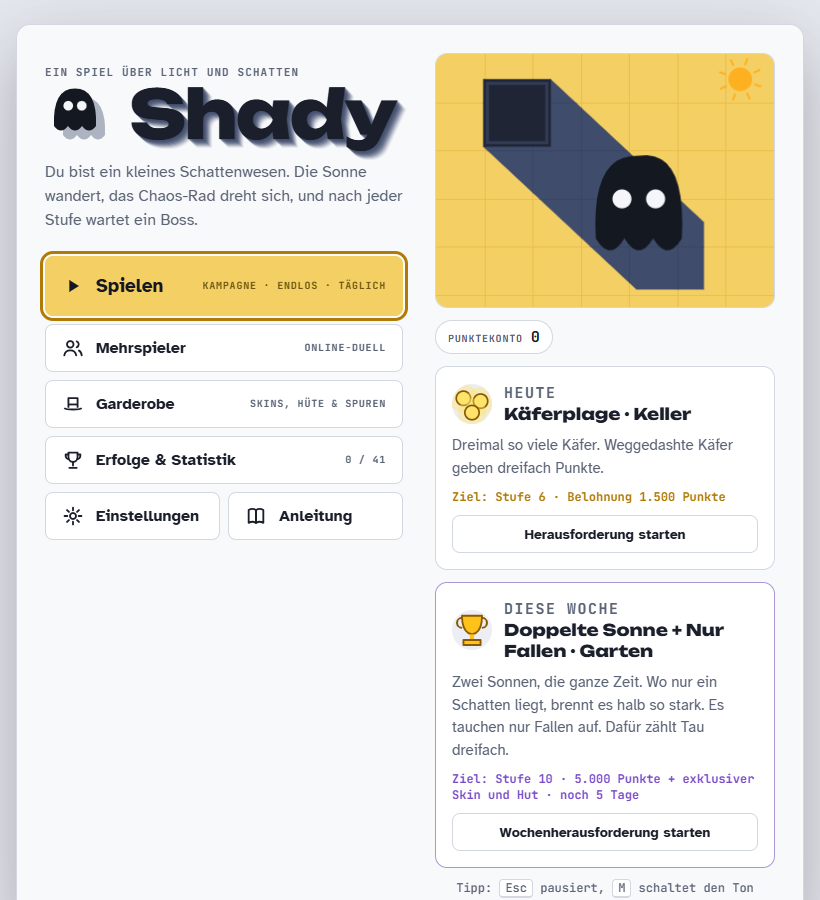
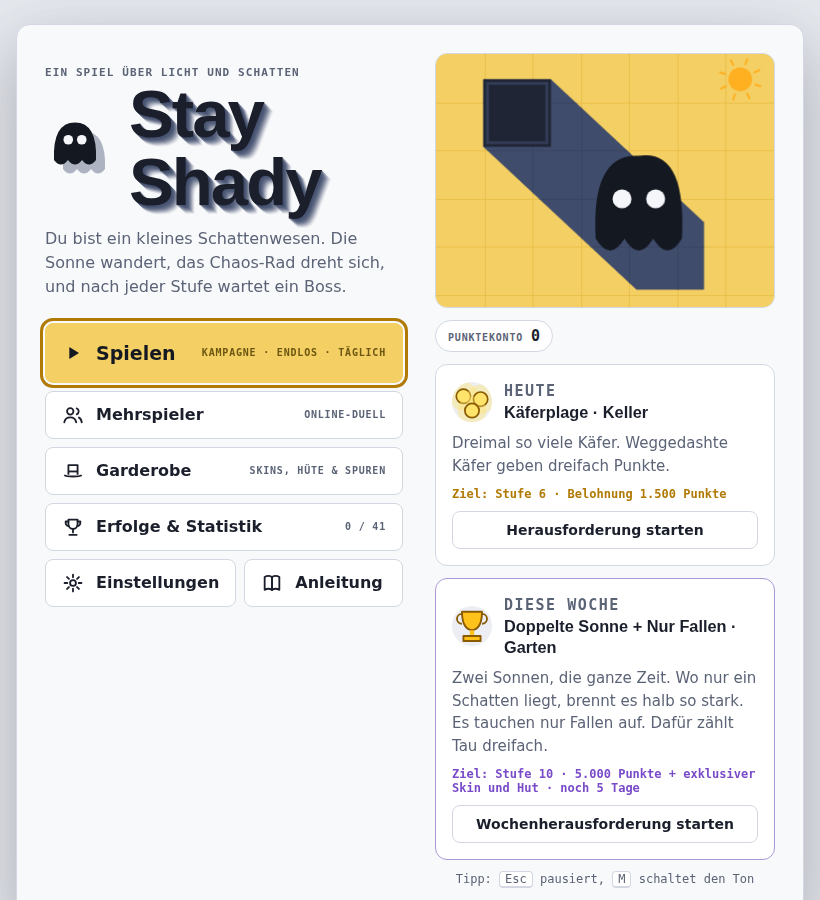
Spiel in „Stay Shady“ umbenannt
Titel, Logo, Meta-Tags, README, Favicon-Titel und Tool-Paketname nutzen
den neuen Namen. Im Menü steht „Stay“ klein über „Shady“, damit das Logo
auch auf dem Handy passt. Titelbild (og-image) und itch.io-Cover sind neu
gezeichnet, mit der Unterzeile „Hide from the sun.“

Claude-Session: https://claude.ai/code/session_01GXAregUbPo5qXpAHJQyjad

Changed region(s): [[0.0305, 0.0622, 0.5183, 0.6533], [0.5488, 0.3733, 0.9451, 1.0], [0.4573, 0.2178, 0.4878, 0.2489]]

diff --git a/index.html b/index.html
@@ -3,23 +3,23 @@
 <head>
 <meta charset="utf-8">
 <meta name="viewport" content="width=device-width,initial-scale=1,viewport-fit=cover">
-<title>Shady</title>
+<title>Stay Shady</title>
 <meta name="description" content="A chaotic browser game about light and shadow. Stay in the shade, dodge the chaos wheel, beat bosses and build your run with upgrade cards. Free, no install.">
 <meta name="theme-color" content="#1F2535">
 <link rel="icon" href="assets/favicon.svg" type="image/svg+xml">
 <link rel="icon" href="assets/favicon-32.png" sizes="32x32" type="image/png">
 <link rel="apple-touch-icon" href="assets/apple-touch-icon.png">
 <meta property="og:type" content="website">
-<meta property="og:site_name" content="Shady">
-<meta property="og:title" content="Shady – stay in the shadows">
+<meta property="og:site_name" content="Stay Shady">
+<meta property="og:title" content="Stay Shady – a game of light and shadow">
 <meta property="og:description" content="A chaotic browser game about light and shadow. 6 bosses, 4 maps, daily and weekly challenges, online duels. Free, right in your browser.">
 <meta property="og:url" content="https://sxrg1u.github.io/shady/">
 <meta property="og:image" content="https://sxrg1u.github.io/shady/assets/og-image.png">
 <meta property="og:image:width" content="1200">
 <meta property="og:image:height" content="630">
-<meta property="og:image:alt" content="Shady: a small shadow creature hiding in the long shadow of a pillar in a sunny courtyard">
+<meta property="og:image:alt" content="Stay Shady: a small shadow creature hiding in the long shadow of a pillar in a sunny courtyard">
 <meta name="twitter:card" content="summary_large_image">
-<meta name="twitter:title" content="Shady – stay in the shadows">
+<meta name="twitter:title" content="Stay Shady – a game of light and shadow">
 <meta name="twitter:description" content="A chaotic browser game about light and shadow. Free, right in your browser.">
 <meta name="twitter:image" content="https://sxrg1u.github.io/shady/assets/og-image.png">
 <link rel="preconnect" href="https://fonts.googleapis.com">
@@ -56,7 +56,7 @@
     <span class="tag">Gegner</span><b id="oppName">–</b><span id="oppScore">0</span>
     <div class="bar"><i id="oppEnergy"></i></div><span id="oppState" class="tag">lebt</span>
   </div>
-  <div class="stage"><canvas id="game" aria-label="Spielfeld von Shady"></canvas><button class="tut-skip" id="tutSkip" hidden>Tutorial überspringen</button></div>
+  <div class="stage"><canvas id="game" aria-label="Spielfeld von Stay Shady"></canvas><button class="tut-skip" id="tutSkip" hidden>Tutorial überspringen</button></div>
   <div class="touchbar"><button class="dashbtn" id="dashBtn">DASH</button></div>
 </div>
 
@@ -68,9 +68,9 @@
     <div>
       <div class="brand">
         <p class="eyebrow">Ein Spiel über Licht und Schatten</p>
-        <h1 class="logo" aria-label="Shady">
+        <h1 class="logo" aria-label="Stay Shady">
           <svg class="logo-mark" viewBox="0 0 48 44" aria-hidden="true"><path class="lm-shadow" d="M12 36Q11 11 26 11Q41 11 40 36Q35.3 42 30.7 36Q26 42 21.3 36Q16.7 42 12 36Z"/><path class="lm-body" d="M6 30Q5 5 20 5Q35 5 34 30Q29.3 36 24.7 30Q20 36 15.3 30Q10.7 36 6 30Z"/><circle cx="15.5" cy="16.5" r="3.2" fill="#F4F6FA"/><circle cx="24.5" cy="16.5" r="3.2" fill="#F4F6FA"/></svg>
-          <span class="logo-word" aria-hidden="true">Shady</span>
+          <span class="logo-word" aria-hidden="true"><span class="logo-pre">Stay</span>Shady</span>
         </h1>
         <p>Du bist ein kleines Schattenwesen. Die Sonne wandert, das Chaos-Rad dreht sich, und nach jeder Stufe wartet ein Boss.</p>
       </div>

diff --git a/css/style.css b/css/style.css
@@ -1,4 +1,4 @@
-/* Shady – Stile */
+/* Stay Shady – Stile */
 :root{
   --bg:#ECEEF3; --panel:#F8F9FB; --panel2:#FFFFFF; --ink:#1A1F2B; --muted:#5B6376; --line:#D2D7E1;
   --sun:#B07A05; --shade:#3F4C6B; --danger:#C3402C; --ok:#2F7D5B; --gold:#F4CF63;
@@ -285,6 +285,9 @@ input.text{font:700 16px var(--body);padding:10px 12px;border-radius:8px;border:
 @media (prefers-color-scheme: dark){:root:not([data-theme="light"]) .logo-mark .lm-body{stroke:#8E9CC2;stroke-width:1.4}}
 .logo-word{font:800 clamp(2.7rem,8.5vw,4.2rem)/1 var(--display);letter-spacing:-.03em;color:var(--ink);
   text-shadow:1px 1px 0 color-mix(in srgb,var(--ls) 55%,transparent),2px 2px 0 color-mix(in srgb,var(--ls) 50%,transparent),3px 3px 0 color-mix(in srgb,var(--ls) 44%,transparent),4px 4px 0 color-mix(in srgb,var(--ls) 38%,transparent),5px 5px 0 color-mix(in srgb,var(--ls) 32%,transparent),6px 6px 0 color-mix(in srgb,var(--ls) 26%,transparent),7px 7px 0 color-mix(in srgb,var(--ls) 20%,transparent),8px 8px 0 color-mix(in srgb,var(--ls) 14%,transparent),9px 9px 0 color-mix(in srgb,var(--ls) 8%,transparent)}
+
+/* "Stay" klein über "Shady", damit der Name auch auf schmalen Schirmen in eine Zeile passt */
+.logo-pre{display:block;font-size:.42em;letter-spacing:.02em;margin:0 0 .12em .06em;color:var(--shade);text-shadow:none}
 
 /* Tutorial */
 .tut-skip{position:absolute;top:8px;right:8px;z-index:2;min-height:36px;padding:6px 12px;border-radius:8px;border:1px solid rgba(255,255,255,.4);background:rgba(20,24,33,.78);color:#F2F4F8;font:700 13px var(--body);cursor:pointer}

diff --git a/js/i18n.js b/js/i18n.js
@@ -198,7 +198,7 @@ function applyDataLang() {
 const STATIC_EN = {
   // Anzeige
   'Punkte': 'Score', 'Rekord': 'Best', 'Stufe': 'Level', 'Leben': 'Lives', 'Kraft': 'Energy', 'Gegner': 'Opponent', 'lebt': 'alive',
-  'Pause': 'Pause', 'Spielfeld von Shady': 'Shady playfield',
+  'Pause': 'Pause', 'Spielfeld von Stay Shady': 'Stay Shady playfield',
   // Hauptmenü
   'Ein Spiel über Licht und Schatten': 'A game of light and shadow',
   'Du bist ein kleines Schattenwesen. Die Sonne wandert, das Chaos-Rad dreht sich, und nach jeder Stufe wartet ein Boss.': 'You are a little shadow creature. The sun keeps moving, the chaos wheel keeps spinning, and after every level a boss is waiting.',

diff --git a/js/ui.js b/js/ui.js
@@ -877,7 +877,7 @@ function setLang(l) {
   LANG = l === 'de' ? 'de' : 'en';
   P.settings.lang = LANG;
   document.documentElement.lang = LANG;
-  document.title = 'Shady';
+  document.title = 'Stay Shady';
   const md = document.querySelector('meta[name="description"]');
   if (md) md.content = tr('Ein chaotisches Browserspiel über Licht und Schatten. 6 Bosse, 4 Karten, tägliche und wöchentliche Herausforderungen, Upgrades, Garderobe und Online-Duell.', 'A chaotic browser game about light and shadow. 6 bosses, 4 maps, daily and weekly challenges, upgrades, wardrobe and online duel.');
   applyDataLang(); translateStatic();

diff --git a/README.md b/README.md
@@ -1,8 +1,8 @@
 <p align="center">
-  <img src="assets/og-image.png" alt="Titelbild von Shady: das kleine Schattenwesen im Schatten einer Säule auf dem sonnigen Innenhof" width="720">
+  <img src="assets/og-image.png" alt="Titelbild von Stay Shady: das kleine Schattenwesen im Schatten einer Säule auf dem sonnigen Innenhof" width="720">
 </p>
 
-# Shady
+# Stay Shady
 
 ### [▶ Jetzt im Browser spielen](https://sxrg1u.github.io/shady/)
 
@@ -33,7 +33,7 @@ Es gibt nichts zu installieren. Das Spiel läuft auf dem PC und auf dem Handy, a
 
 | | |
 | --- | --- |
-| ![Hauptmenü von Shady mit Logo, Menüknöpfen, täglicher Herausforderung und Wochenherausforderung](screenshots/hauptmenue.png) | ![Modusauswahl mit den vier Karten Innenhof, Garten, Dach und Keller sowie Kampagne, Endlos, Täglich und Woche](screenshots/modi.png) |
+| ![Hauptmenü von Stay Shady mit Logo, Menüknöpfen, täglicher Herausforderung und Wochenherausforderung](screenshots/hauptmenue.png) | ![Modusauswahl mit den vier Karten Innenhof, Garten, Dach und Keller sowie Kampagne, Endlos, Täglich und Woche](screenshots/modi.png) |
 | *Das Hauptmenü* | *Modus und Karte wählen* |
 | ![Normales Spiel auf Stufe 3: gelber Innenhof, dunkelblaue Schatten der Säulen, in der Mitte die kleine schwarze Spielfigur](screenshots/spiel-normal.png) | ![Garten: grüne Wiese mit Blumen, runde Bäume und Hecken werfen dunkelgrüne Schatten](screenshots/karte-garten.png) |
 | *Innenhof: die erste Karte* | *Garten: runde Bäume, weiche Schatten* |

diff --git a/assets/music/README.md b/assets/music/README.md
@@ -1,6 +1,6 @@
-# Eigene Musik für Shady
+# Eigene Musik für Stay Shady
 
-Shady erzeugt seine Musik normalerweise selbst im Browser. Wenn du echte Musikstücke verwenden willst, leg sie in diesen Ordner und trag sie in `tracks.json` ein. Das Spiel spielt sie dann in Schleife ab. Stücke, die nicht eingetragen sind, bleiben synthetisch.
+Stay Shady erzeugt seine Musik normalerweise selbst im Browser. Wenn du echte Musikstücke verwenden willst, leg sie in diesen Ordner und trag sie in `tracks.json` ein. Das Spiel spielt sie dann in Schleife ab. Stücke, die nicht eingetragen sind, bleiben synthetisch.
 
 ## So geht's
 
